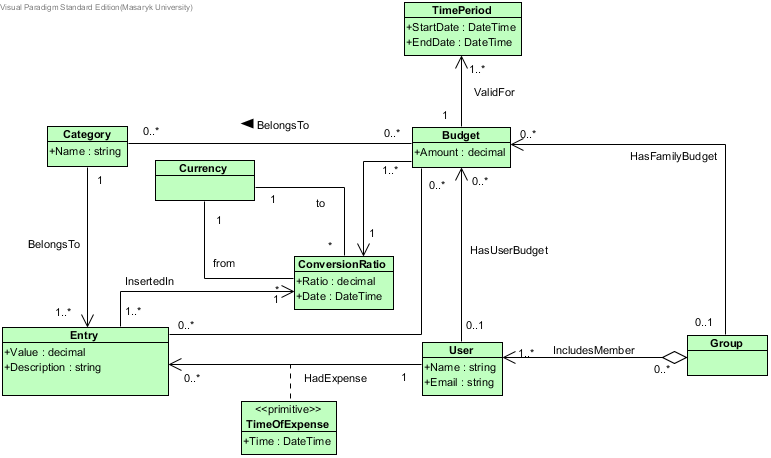
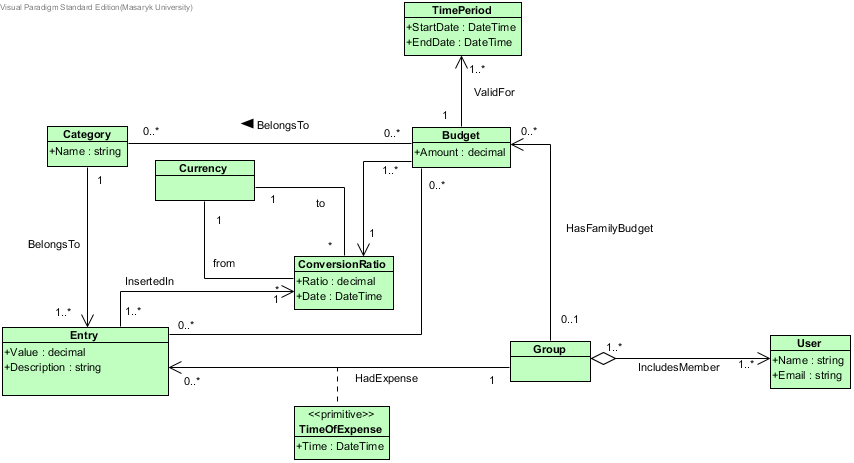
Edited entities structure

diff --git a/Utilities/MyWallet.Migrations/MyWalletMigrations/Migrations/201610301014069_Initial.cs b/Utilities/MyWallet.Migrations/MyWalletMigrations/Migrations/201610301014069_Initial.cs
@@ -1,4 +1,4 @@
-namespace MyWallet.Migrations.MyWalletMigrations
+namespace MyWallet.Migrations.Migrations
 {
     using System;
     using System.Data.Entity.Migrations;
@@ -14,15 +14,12 @@ namespace MyWallet.Migrations.MyWalletMigrations
                         Id = c.Guid(nullable: false, identity: true),
                         Amount = c.Decimal(nullable: false, precision: 18, scale: 2),
                         Description = c.String(maxLength: 254),
-                        User_Id = c.Guid(),
                         Group_Id = c.Guid(),
                         ConversionRatio_Id = c.Guid(nullable: false),
                     })
                 .PrimaryKey(t => t.Id)
-                .ForeignKey("dbo.Users", t => t.User_Id, cascadeDelete: true)
                 .ForeignKey("dbo.Groups", t => t.Group_Id, cascadeDelete: true)
                 .ForeignKey("dbo.ConversionRatios", t => t.ConversionRatio_Id)
-                .Index(t => t.User_Id)
                 .Index(t => t.Group_Id)
                 .Index(t => t.ConversionRatio_Id);
             
@@ -45,16 +42,16 @@ namespace MyWallet.Migrations.MyWalletMigrations
                         Description = c.String(maxLength: 254),
                         EntryDateTime = c.DateTime(nullable: false),
                         ConversionRatio_Id = c.Guid(nullable: false),
-                        User_Id = c.Guid(nullable: false),
+                        Group_Id = c.Guid(nullable: false),
                         Category_Id = c.Guid(nullable: false),
                     })
                 .PrimaryKey(t => t.Id)
                 .ForeignKey("dbo.ConversionRatios", t => t.ConversionRatio_Id)
-                .ForeignKey("dbo.Users", t => t.User_Id, cascadeDelete: true)
+                .ForeignKey("dbo.Groups", t => t.Group_Id, cascadeDelete: true)
                 .ForeignKey("dbo.Categories", t => t.Category_Id, cascadeDelete: true)
                 .Index(t => t.EntryDateTime)
                 .Index(t => t.ConversionRatio_Id)
-                .Index(t => t.User_Id)
+                .Index(t => t.Group_Id)
                 .Index(t => t.Category_Id);
             
             CreateTable(
@@ -84,21 +81,21 @@ namespace MyWallet.Migrations.MyWalletMigrations
                 .Index(t => t.Code, unique: true);
             
             CreateTable(
+                "dbo.Groups",
+                c => new
+                    {
+                        Id = c.Guid(nullable: false, identity: true),
+                        Name = c.String(nullable: false, maxLength: 254),
+                    })
+                .PrimaryKey(t => t.Id);
+            
+            CreateTable(
                 "dbo.Users",
                 c => new
                     {
                         Id = c.Guid(nullable: false, identity: true),
                         Name = c.String(maxLength: 256),
                         Email = c.String(nullable: false, maxLength: 254),
-                    })
-                .PrimaryKey(t => t.Id);
-            
-            CreateTable(
-                "dbo.Groups",
-                c => new
-                    {
-                        Id = c.Guid(nullable: false, identity: true),
-                        Name = c.String(nullable: false, maxLength: 254),
                     })
                 .PrimaryKey(t => t.Id);
             
@@ -167,9 +164,8 @@ namespace MyWallet.Migrations.MyWalletMigrations
             DropForeignKey("dbo.Entries", "Category_Id", "dbo.Categories");
             DropForeignKey("dbo.GroupUsers", "User_Id", "dbo.Users");
             DropForeignKey("dbo.GroupUsers", "Group_Id", "dbo.Groups");
+            DropForeignKey("dbo.Entries", "Group_Id", "dbo.Groups");
             DropForeignKey("dbo.Budgets", "Group_Id", "dbo.Groups");
-            DropForeignKey("dbo.Entries", "User_Id", "dbo.Users");
-            DropForeignKey("dbo.Budgets", "User_Id", "dbo.Users");
             DropForeignKey("dbo.Entries", "ConversionRatio_Id", "dbo.ConversionRatios");
             DropForeignKey("dbo.ConversionRatios", "CurrencyTo_Id", "dbo.Currencies");
             DropForeignKey("dbo.ConversionRatios", "CurrencyFrom_Id", "dbo.Currencies");
@@ -184,18 +180,17 @@ namespace MyWallet.Migrations.MyWalletMigrations
             DropIndex("dbo.ConversionRatios", new[] { "CurrencyTo_Id" });
             DropIndex("dbo.ConversionRatios", new[] { "CurrencyFrom_Id" });
             DropIndex("dbo.Entries", new[] { "Category_Id" });
-            DropIndex("dbo.Entries", new[] { "User_Id" });
+            DropIndex("dbo.Entries", new[] { "Group_Id" });
             DropIndex("dbo.Entries", new[] { "ConversionRatio_Id" });
             DropIndex("dbo.Entries", new[] { "EntryDateTime" });
             DropIndex("dbo.Budgets", new[] { "ConversionRatio_Id" });
             DropIndex("dbo.Budgets", new[] { "Group_Id" });
-            DropIndex("dbo.Budgets", new[] { "User_Id" });
             DropTable("dbo.BudgetEntries");
             DropTable("dbo.BudgetCategories");
             DropTable("dbo.GroupUsers");
             DropTable("dbo.TimePeriods");
-            DropTable("dbo.Groups");
             DropTable("dbo.Users");
+            DropTable("dbo.Groups");
             DropTable("dbo.Currencies");
             DropTable("dbo.ConversionRatios");
             DropTable("dbo.Entries");

diff --git a/Utilities/MyWallet.Migrations/Migrations/MyWalletContextConfiguration.cs b/Utilities/MyWallet.Migrations/Migrations/MyWalletContextConfiguration.cs
@@ -1,0 +1,33 @@
+namespace MyWallet.Migrations.Migrations
+{
+    using System;
+    using System.Data.Entity;
+    using System.Data.Entity.Migrations;
+    using System.Linq;
+
+    internal sealed class MyWalletContextConfiguration : DbMigrationsConfiguration<MyWallet.Entities.Contexts.MyWalletContext>
+    {
+        public MyWalletContextConfiguration()
+        {
+            this.AutomaticMigrationsEnabled = true;
+            this.AutomaticMigrationDataLossAllowed = true;
+            this.MigrationsDirectory = @"MyWalletMigrations\Migrations";
+        }
+
+        protected override void Seed(MyWallet.Entities.Contexts.MyWalletContext context)
+        {
+            //  This method will be called after migrating to the latest version.
+
+            //  You can use the DbSet<T>.AddOrUpdate() helper extension method 
+            //  to avoid creating duplicate seed data. E.g.
+            //
+            //    context.People.AddOrUpdate(
+            //      p => p.FullName,
+            //      new Person { FullName = "Andrew Peters" },
+            //      new Person { FullName = "Brice Lambson" },
+            //      new Person { FullName = "Rowan Miller" }
+            //    );
+            //
+        }
+    }
+}

diff --git a/Source/MyWallet.Entities/Contexts/MyWalletContext.cs b/Source/MyWallet.Entities/Contexts/MyWalletContext.cs
@@ -89,8 +89,9 @@ namespace MyWallet.Entities.Contexts
             modelBuilder.Entity<Group>().HasMany(g => g.Users).WithMany(u => u.Groups).Map(m => m.ToTable("GroupUsers"));
             modelBuilder.Entity<Group>().HasMany(g => g.Budgets).WithOptional(b => b.Group).WillCascadeOnDelete();
 
-            modelBuilder.Entity<User>().HasMany(u => u.Entries).WithRequired(e => e.User).WillCascadeOnDelete();
-            modelBuilder.Entity<User>().HasMany(u => u.Budgets).WithOptional(b => b.User).WillCascadeOnDelete();
+            modelBuilder.Entity<Group>().HasMany(u => u.Entries).WithRequired(e => e.Group).WillCascadeOnDelete();
+            //modelBuilder.Entity<User>().HasMany(u => u.Entries).WithRequired(e => e.User).WillCascadeOnDelete();
+            //modelBuilder.Entity<User>().HasMany(u => u.Budgets).WithOptional(b => b.User).WillCascadeOnDelete();
 
             modelBuilder.Entity<Budget>().HasMany(b => b.TimePeriods).WithRequired(t => t.Budget).WillCascadeOnDelete();
             modelBuilder.Entity<Budget>()

diff --git a/Source/MyWallet.Entities/DataAccessModels/User.cs b/Source/MyWallet.Entities/DataAccessModels/User.cs
@@ -34,14 +34,14 @@ namespace MyWallet.Entities.DataAccessModels
         /// </summary>
         public virtual ICollection<Group> Groups { get; set; } = new HashSet<Group>();
 
-        /// <summary>
-        /// Gets or sets the entries. Navigable property.
-        /// </summary>
-        public virtual ICollection<Entry> Entries { get; set; } = new HashSet<Entry>();
+        ///// <summary>
+        ///// Gets or sets the entries. Navigable property.
+        ///// </summary>
+        //public virtual ICollection<Entry> Entries { get; set; } = new HashSet<Entry>();
 
-        /// <summary>
-        /// Gets or sets the budgets. Navigable property.
-        /// </summary>
-        public virtual ICollection<Budget> Budgets { get; set; } = new HashSet<Budget>();
+        ///// <summary>
+        ///// Gets or sets the budgets. Navigable property.
+        ///// </summary>
+        //public virtual ICollection<Budget> Budgets { get; set; } = new HashSet<Budget>();
     }
 }

diff --git a/Utilities/MyWallet.Migrations/MyWalletMigrations/Migrations/201610301014069_Initial.Designer.cs b/Utilities/MyWallet.Migrations/MyWalletMigrations/Migrations/201610301014069_Initial.Designer.cs
@@ -1,5 +1,5 @@
 // <auto-generated />
-namespace MyWallet.Migrations.MyWalletMigrations
+namespace MyWallet.Migrations.Migrations
 {
     using System.CodeDom.Compiler;
     using System.Data.Entity.Migrations;
@@ -13,7 +13,7 @@ namespace MyWallet.Migrations.MyWalletMigrations
         
         string IMigrationMetadata.Id
         {
-            get { return "201610261011592_Initial"; }
+            get { return "201610301014069_Initial"; }
         }
         
         string IMigrationMetadata.Source

diff --git a/Source/MyWallet.Entities/DataAccessModels/Group.cs b/Source/MyWallet.Entities/DataAccessModels/Group.cs
@@ -32,5 +32,11 @@ namespace MyWallet.Entities.DataAccessModels
         /// Gets or sets the budgets. Navigable property.
         /// </summary>
         public virtual ICollection<Budget> Budgets { get; set; } = new HashSet<Budget>();
+
+        /// <summary>
+        /// Gets or sets the entries. Navigable property.
+        /// </summary>
+        public virtual ICollection<Entry> Entries { get; set; } = new HashSet<Entry>();
+
     }
 }

diff --git a/Source/MyWallet.Entities/DataAccessModels/Entry.cs b/Source/MyWallet.Entities/DataAccessModels/Entry.cs
@@ -40,8 +40,11 @@ namespace MyWallet.Entities.DataAccessModels
         /// <summary>
         /// Gets or sets the user. Navigable property.
         /// </summary>
+        //[Required]
+        //public virtual User User { get; set; }
+
         [Required]
-        public virtual User User { get; set; }
+        public virtual Group Group { get; set; }
 
         /// <summary>
         /// Gets or sets the category. Navigable property.

diff --git a/Utilities/MyWallet.Migrations/Program.cs b/Utilities/MyWallet.Migrations/Program.cs
@@ -7,13 +7,15 @@
 // </summary>
 // --------------------------------------------------------------------------------------------------------------------
 
+using MyWallet.Migrations.Migrations;
+
 namespace MyWallet.Migrations
 {
     using System;
     using System.Data.Entity;
 
     using MyWallet.Entities.Contexts;
-    using MyWallet.Migrations.MyWalletMigrations;
+    
 
     /// <summary>
     /// The program.

diff --git a/Source/MyWallet.Entities/DataAccessModels/Budget.cs b/Source/MyWallet.Entities/DataAccessModels/Budget.cs
@@ -60,7 +60,7 @@ namespace MyWallet.Entities.DataAccessModels
         /// <summary>
         /// Gets or sets the user. Navigable property.
         /// </summary>
-        public virtual User User { get; set; }
+        //public virtual User User { get; set; }
 
         /// <summary>
         /// Gets or sets the family. Navigable property.
